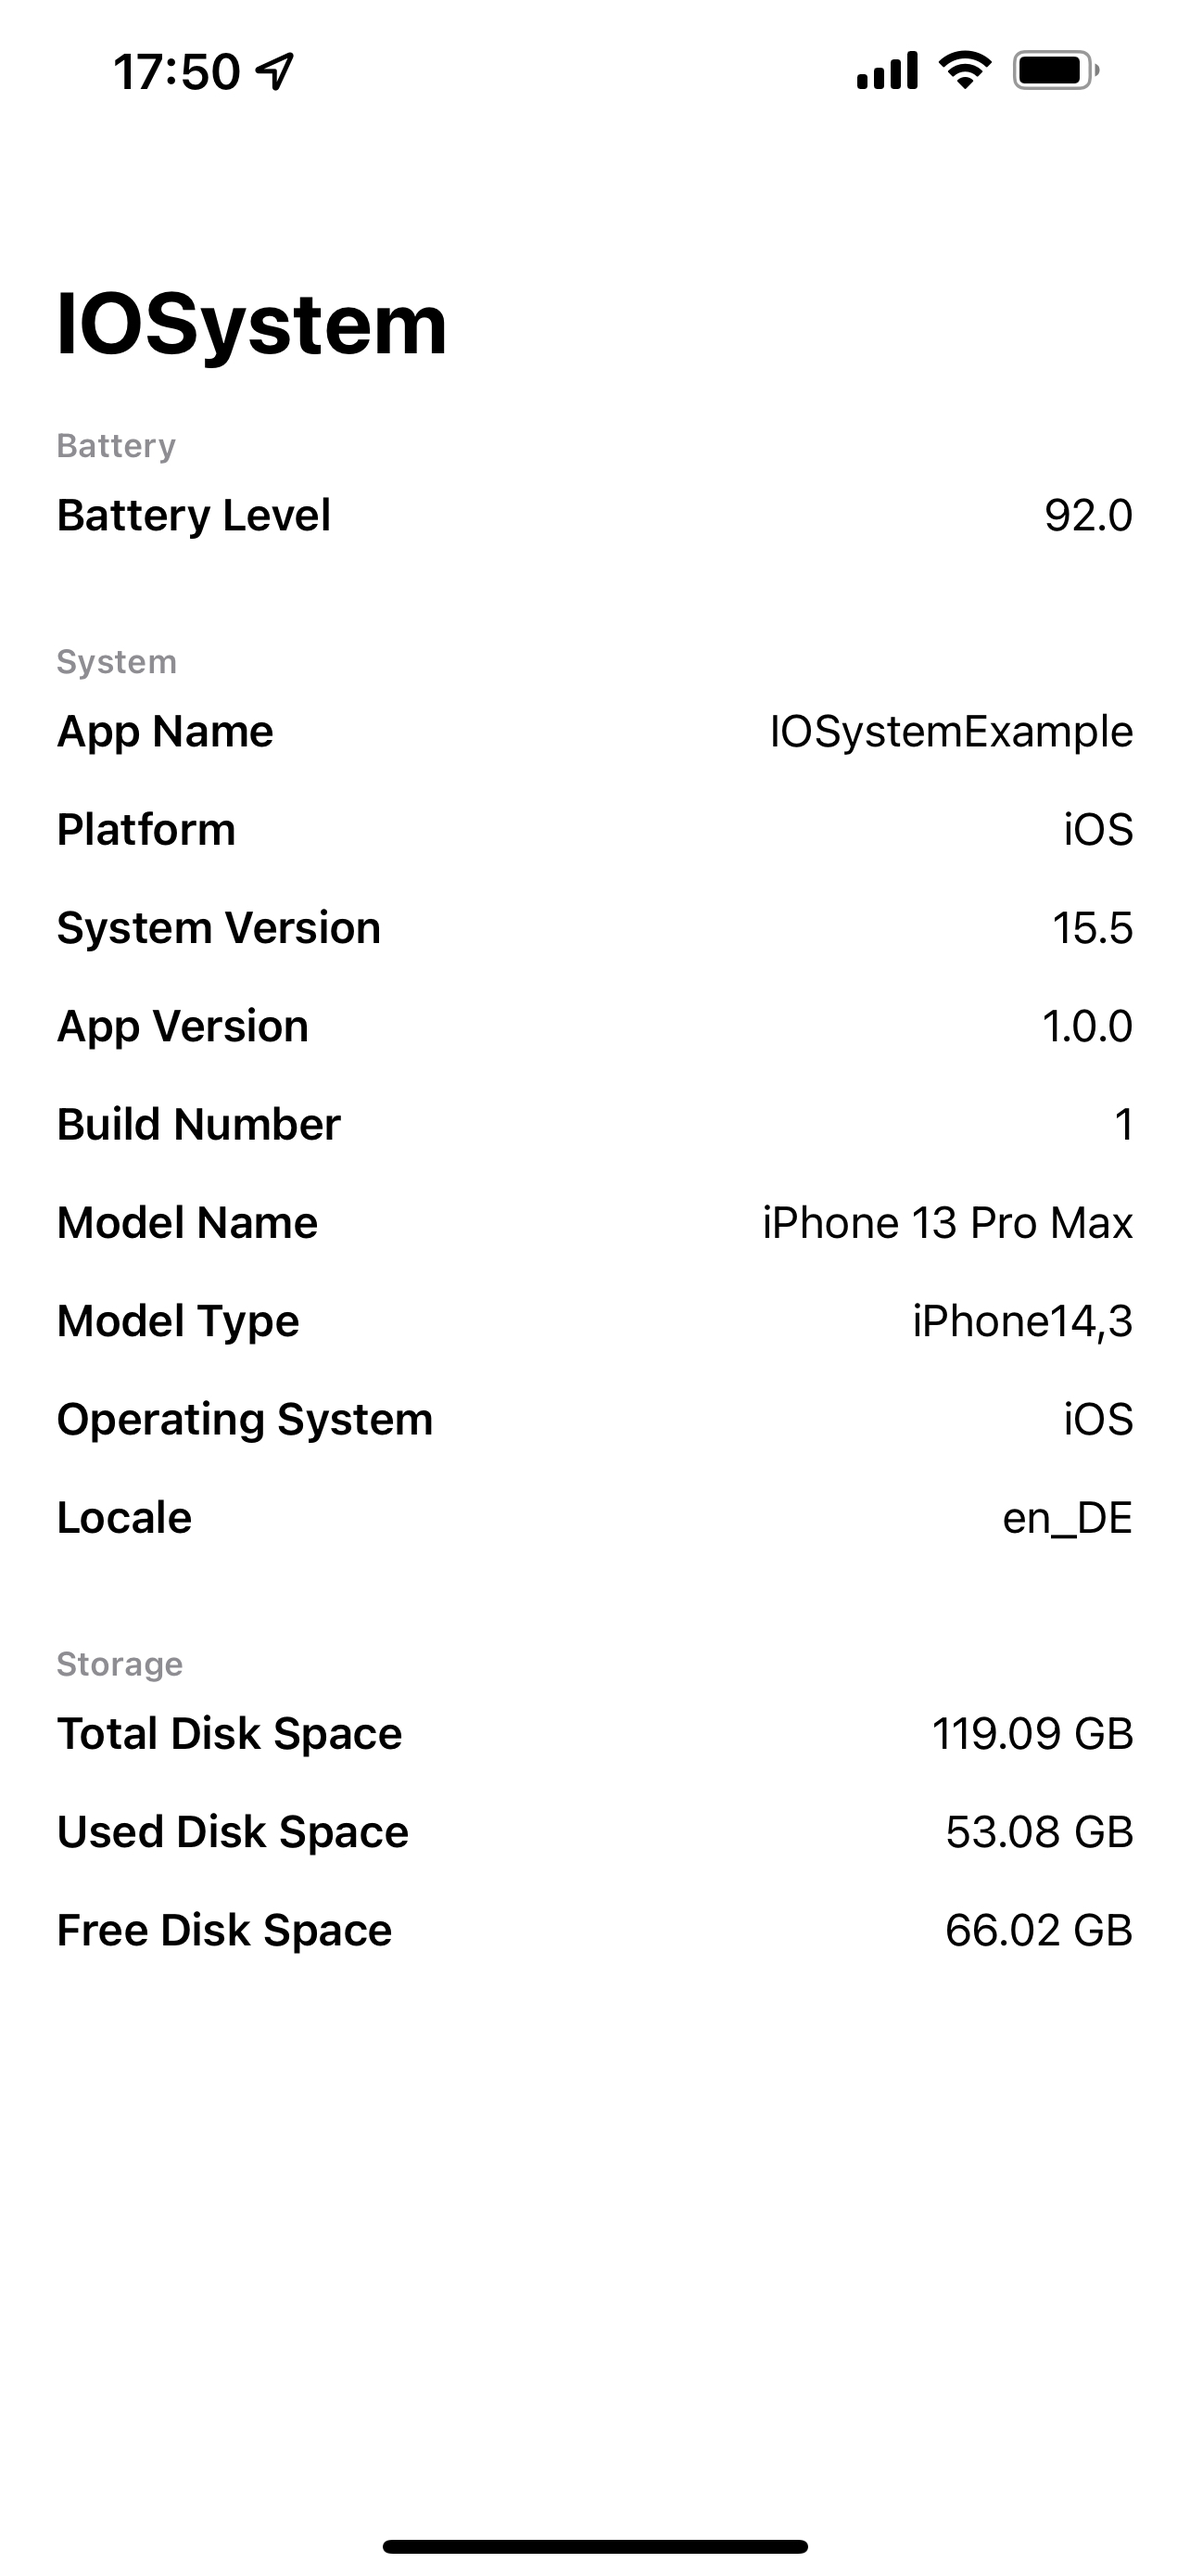
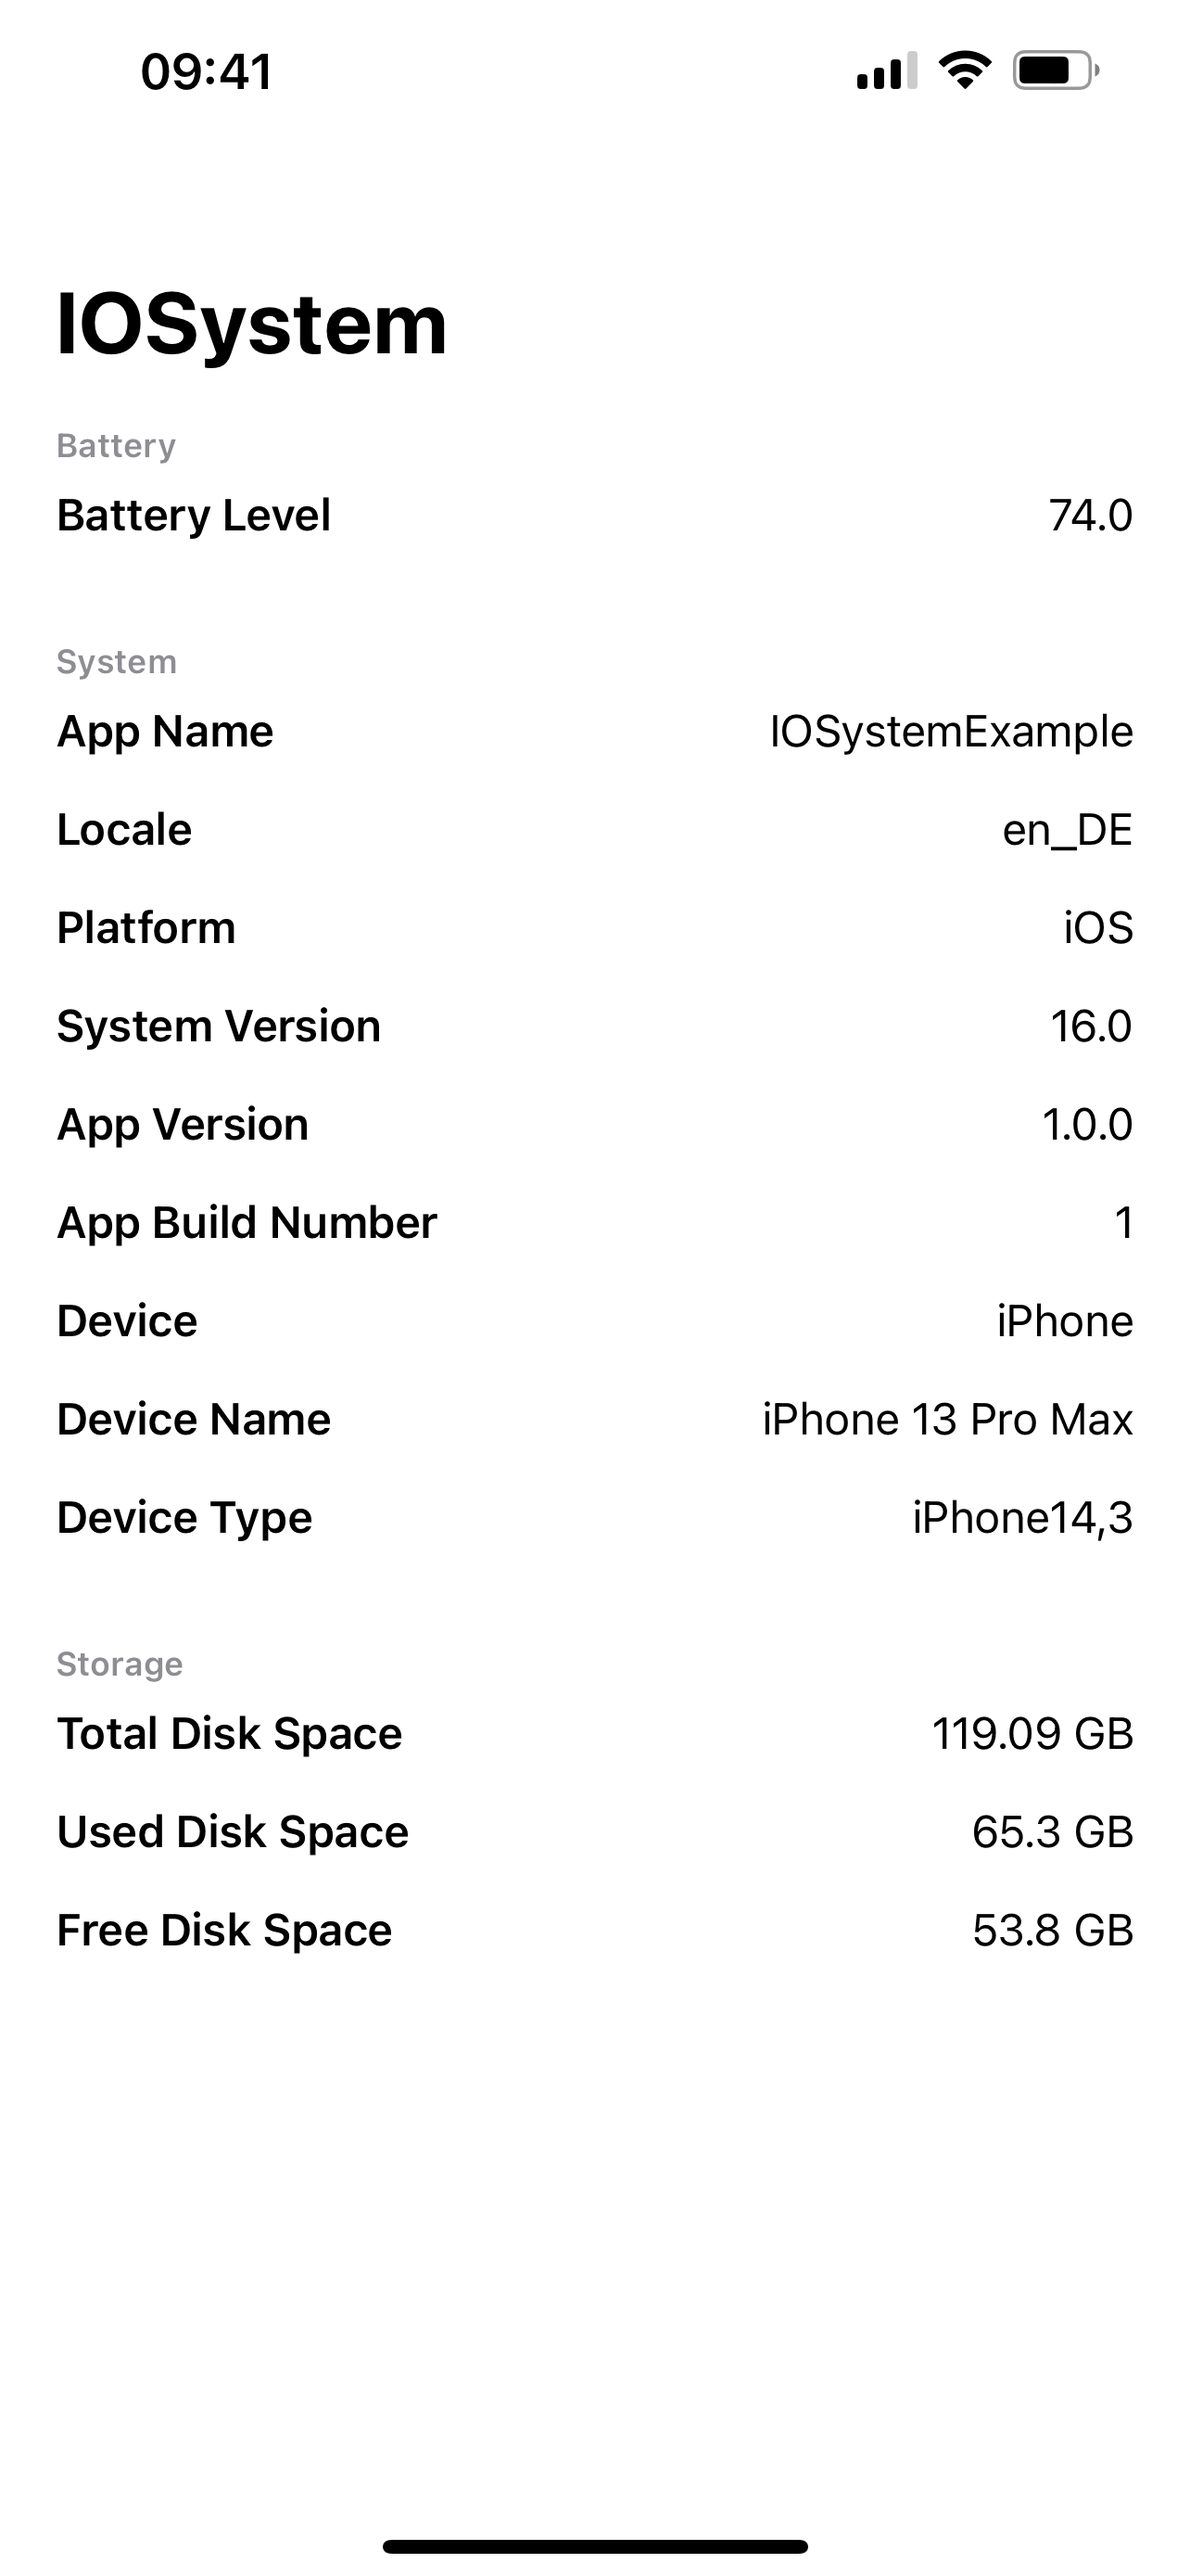
Readme updated
- Added updated screenshot
- Updated available infos

diff --git a/.github/README.md b/.github/README.md
@@ -62,15 +62,14 @@ You can find a full list of available values below and in the example project.
 
 ##### SystemManager
 - .appName
+- .locale
 - .platform
 - .systemVersion
 - .appVersion
-- .buildNumber
-- .appName
-- .modelName
-- .modelType
-- .operatingSystem
-- .locale
+- .appBuildNumber
+- .device
+- .deviceName
+- .deviceType
 
 
 
